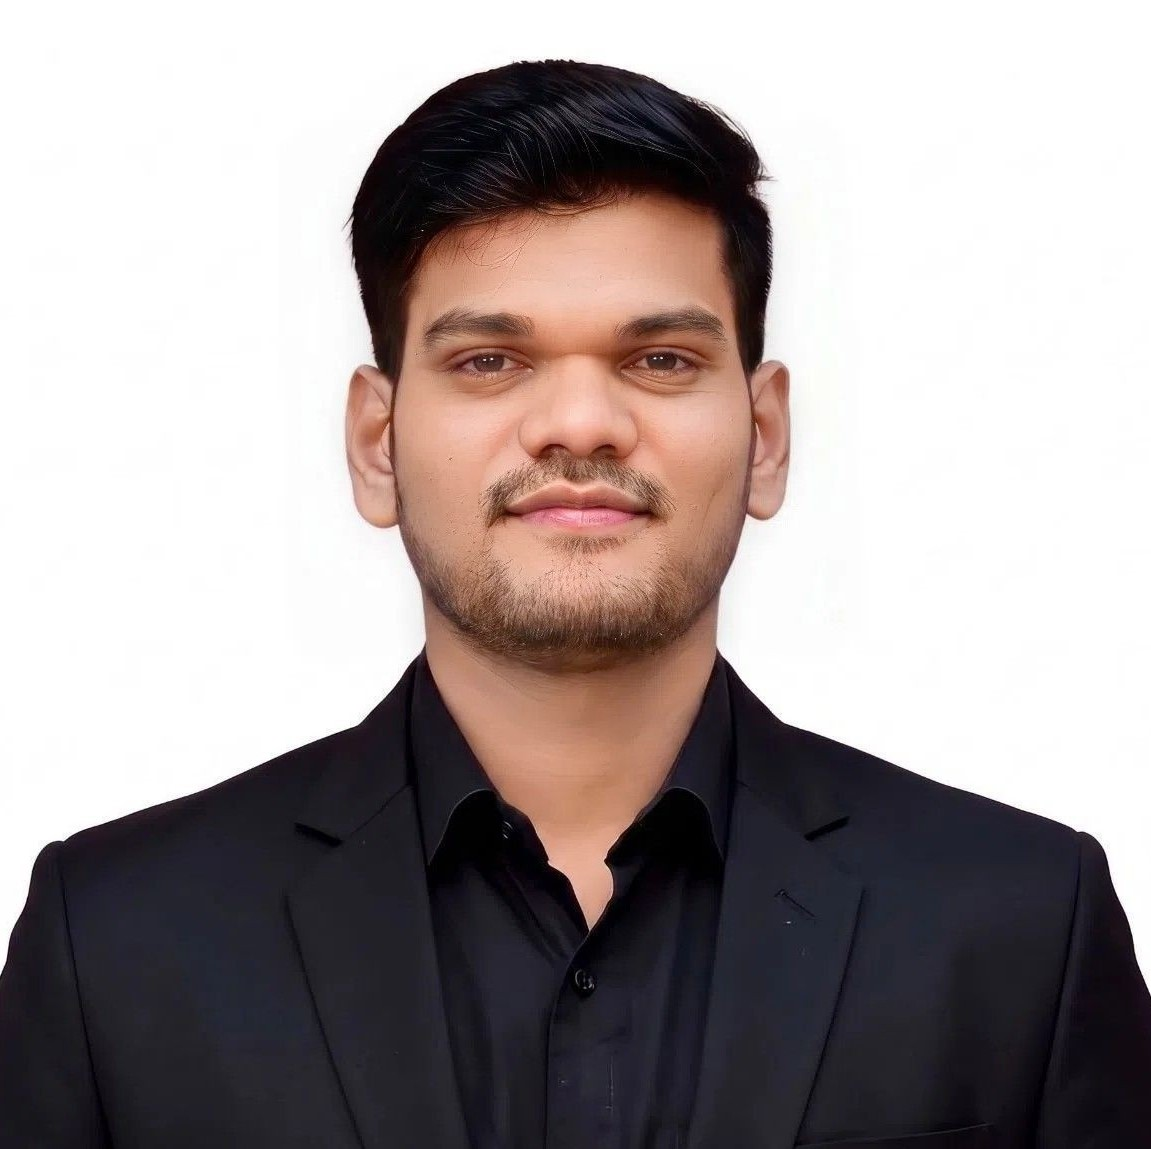
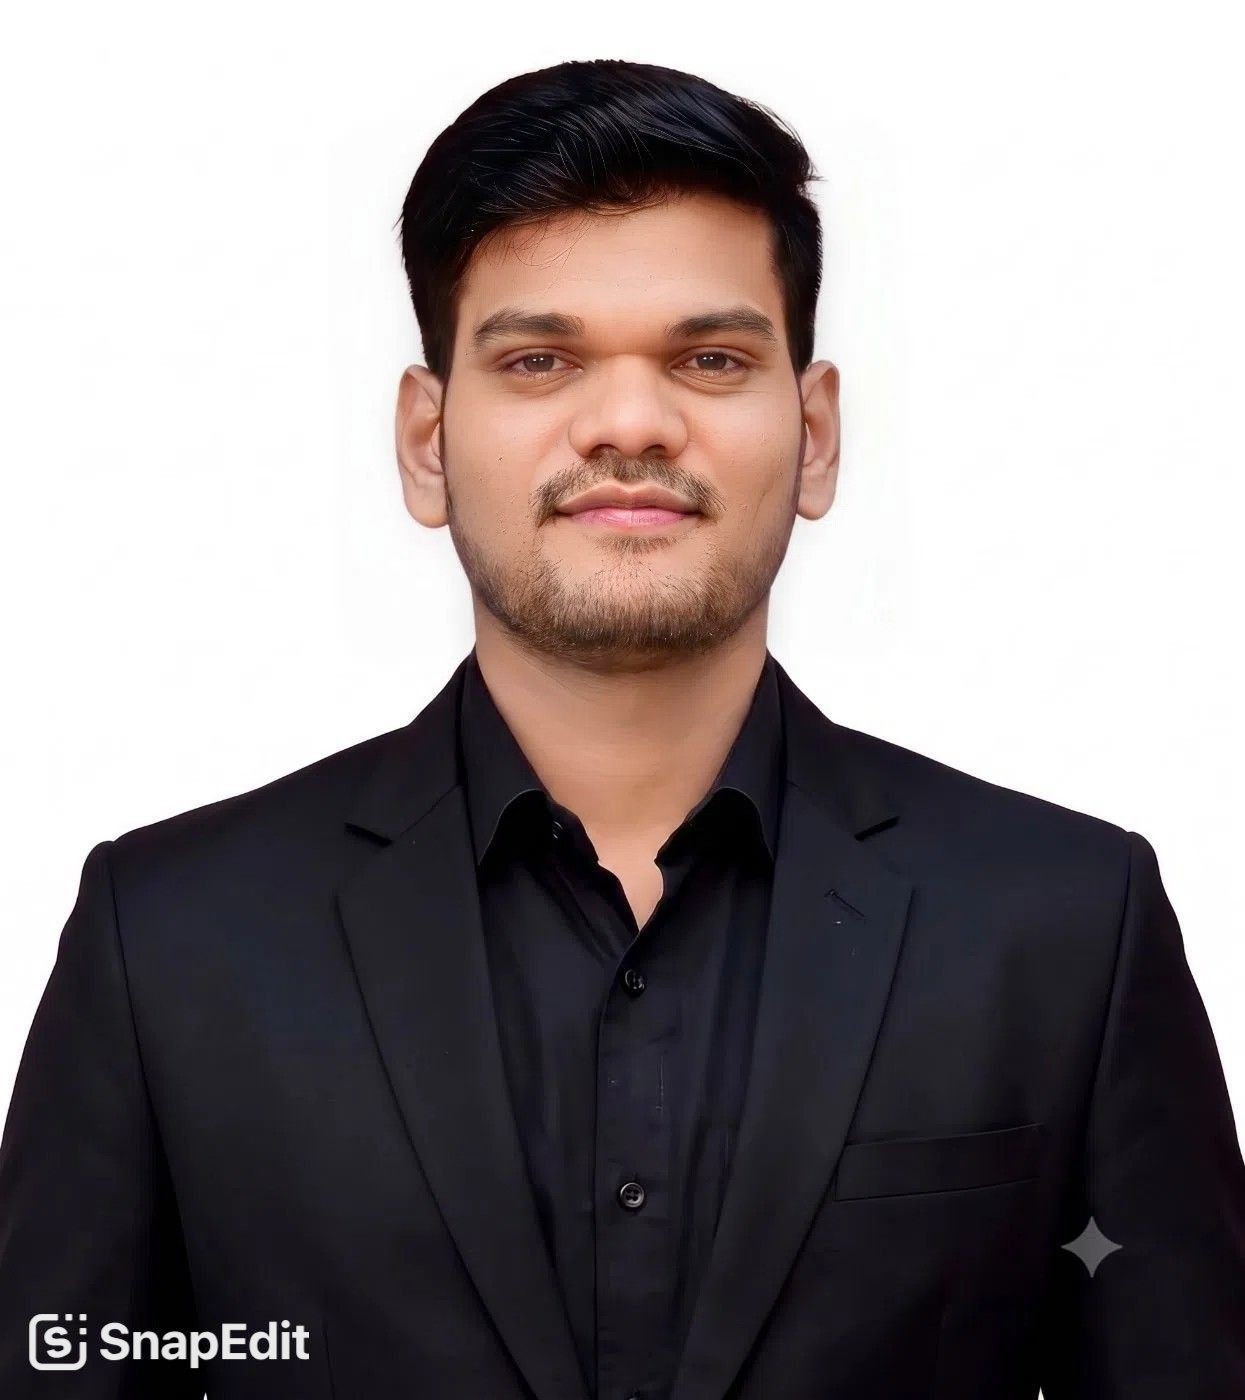
Update profile picture to 1781540189495.jpg

diff --git a/src/components/Hero.jsx b/src/components/Hero.jsx
@@ -43,7 +43,7 @@ const Hero = () => {
               transition={{ duration: 0.4 }}
               src={profilePhoto} 
               alt="Sachin Soni" 
-              className="relative rounded-full w-full h-full object-cover border-[6px] border-[#0a0a0a] shadow-[0_0_40px_rgba(168,85,247,0.3)] z-10"
+              className="relative rounded-full w-full h-full object-cover object-top border-[6px] border-[#0a0a0a] shadow-[0_0_40px_rgba(168,85,247,0.3)] z-10"
             />
             <motion.div 
               initial={{ opacity: 0, y: 20 }}
